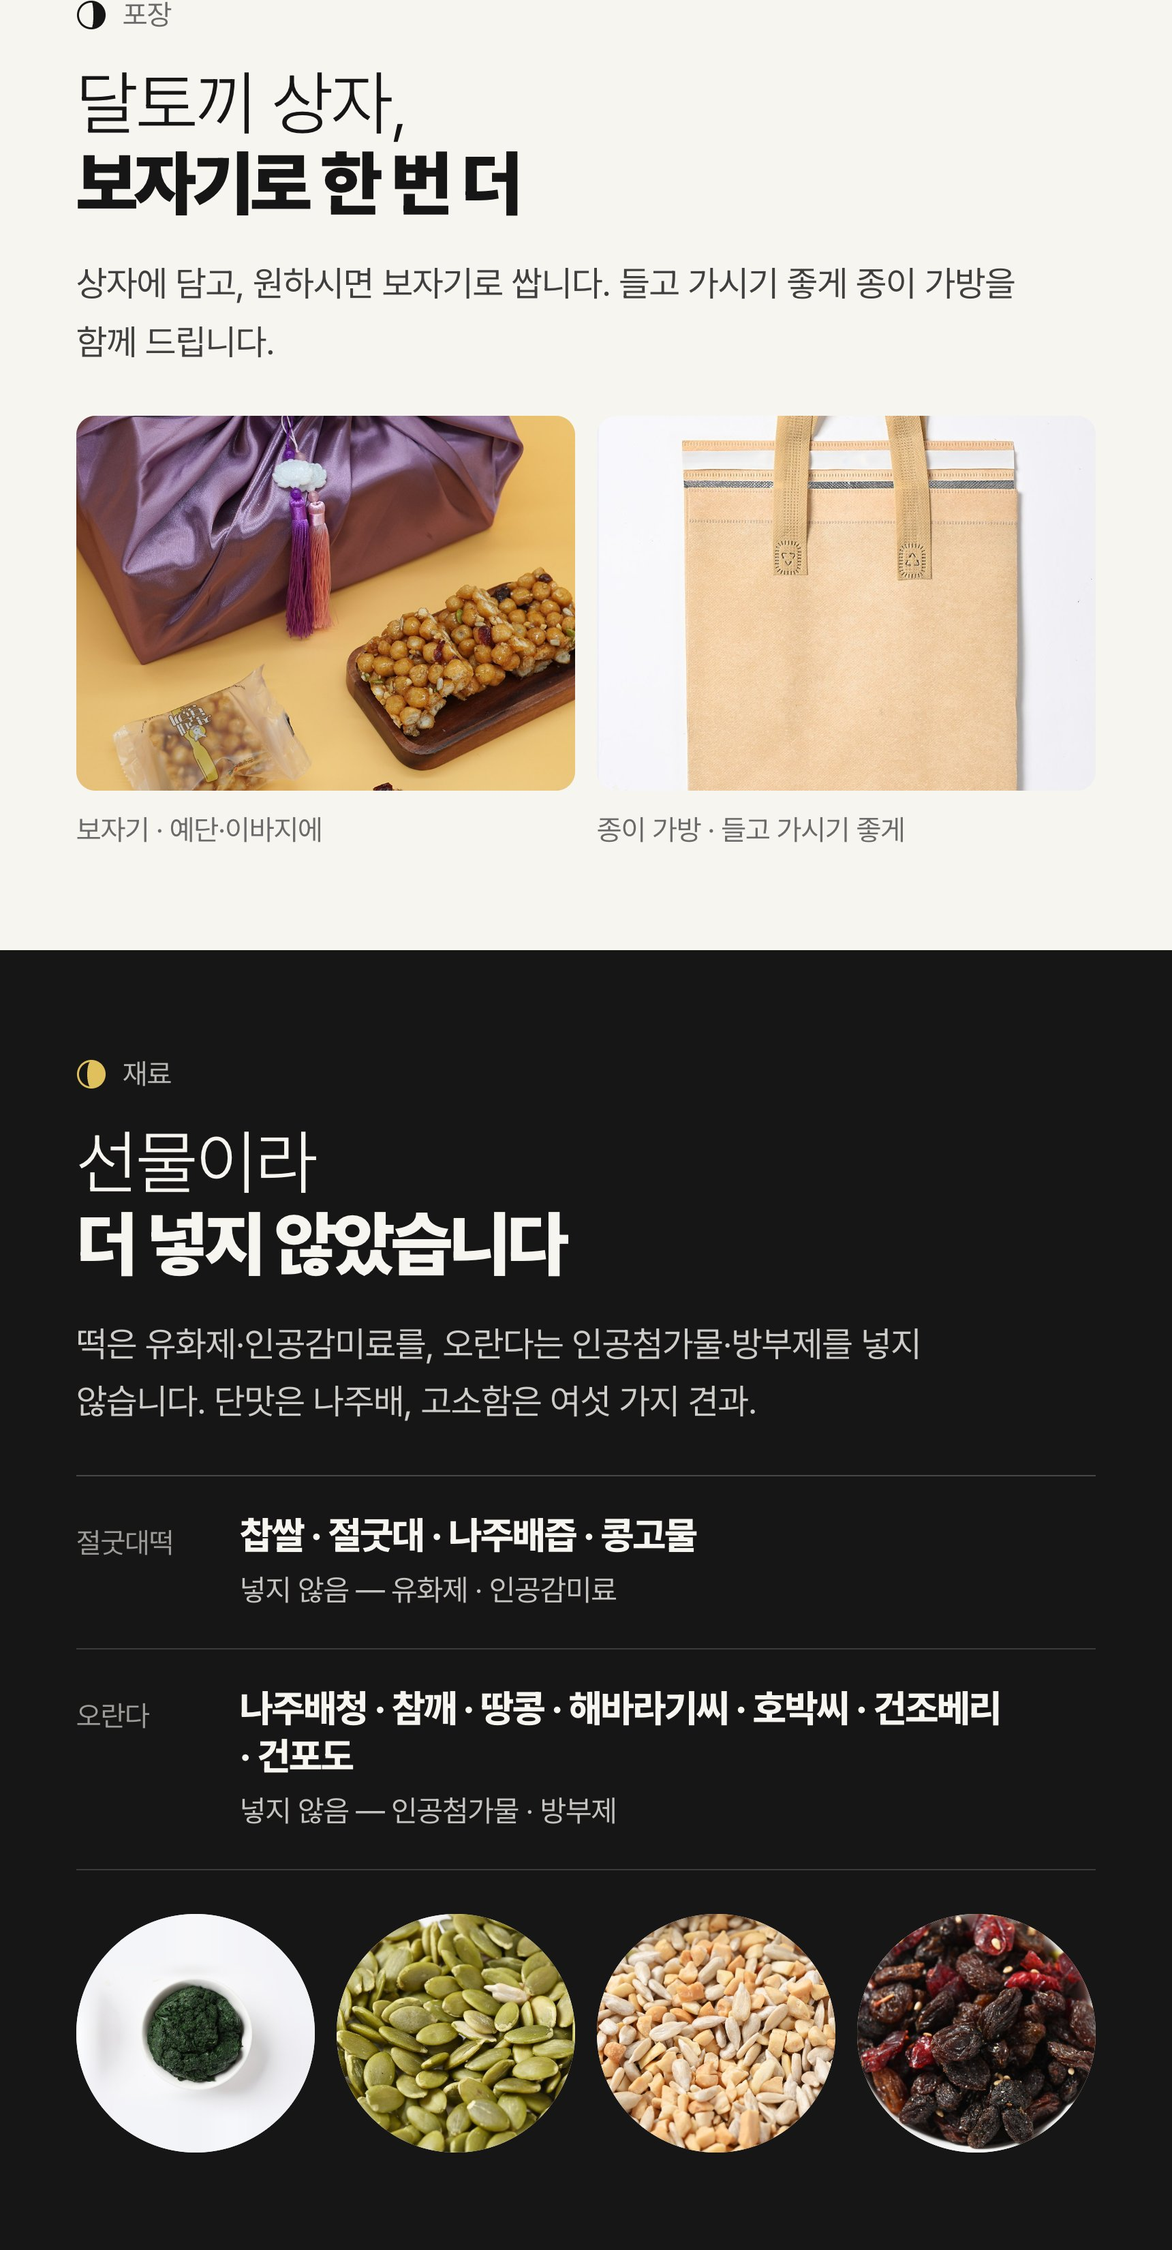
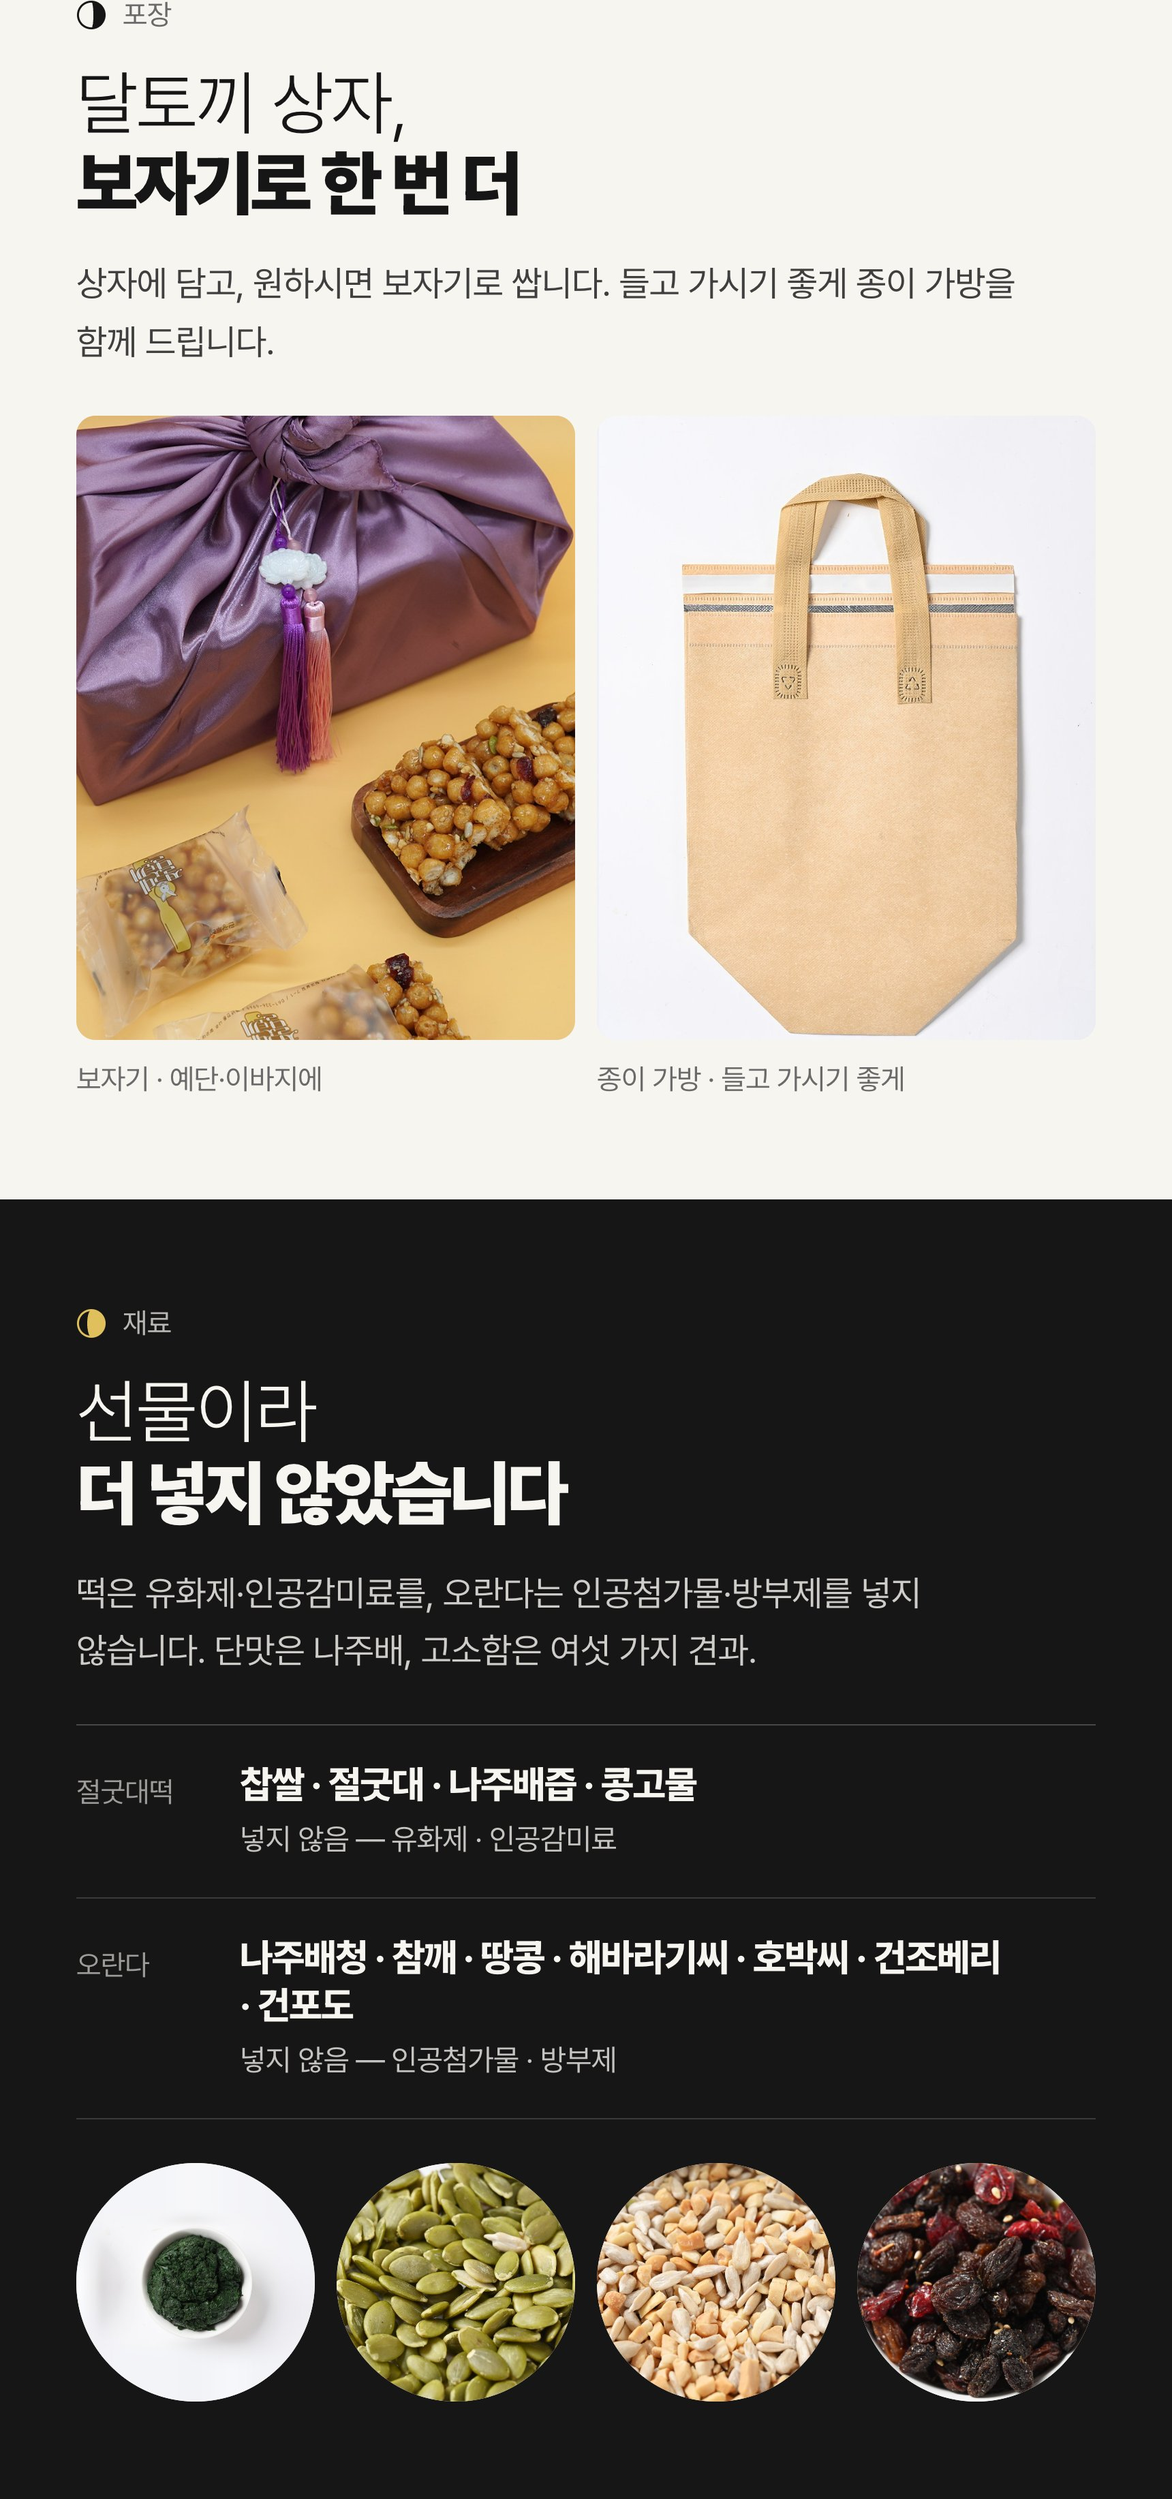
design: 3차 점검 반영 — 재료 문구 모순, 단독 헤딩 쌍, 갤러리 짝수, 상자·접시 컷 추가, 잔여 카피
- 「넣는 것은 이것뿐」이 재료 일부만 보여 주던 모순 → 「넣는 것 가까이서」, 절굿대떡에 나주배즙 원 추가, 사양 「포장」 행.
- black 단독 헤딩 5곳(홈 빚는 것들, 주문하는 방법, 보관과 해동, 만들기 체험, 이렇게 진행합니다) → thin+black 쌍.
- 갤러리 짝수: 선물세트 4장(접시·낱개 바구니 추가, 잘리던 종이 가방 제외), 오란다 6장(접시 컷 추가).
- 홈 슬라이드 1번 접시가 헤드라인에 가려 위치 조정, 캐러셀 시작 여백, 문의 행 보조 줄, 제품 행 「자세히 보기」 단서,
  마침표·따옴표·느낌표 정리, 사회적기업 번호 표기 통일, 인증 목록에서 원칙(무첨가) 분리, 밭 사진 캡션, 체험 예약 문구 중복 제거,
  오란다 사양 행 순서(보관 첫 행), 후기 대목 고아 줄, 상세페이지 포장 타일 세로 비율.

diff --git a/lib/site.ts b/lib/site.ts
@@ -199,6 +199,7 @@ export const products: Product[] = [
         alt: "흰 그릇에 담긴 절굿대 잎 반죽",
         label: "절굿대",
       },
+      { src: "/images/ing-pear.jpg", alt: "나주배", label: "나주배즙" },
     ],
     price: null,
     unit: null,
@@ -215,6 +216,7 @@ export const products: Product[] = [
         value:
           "인절미 그대로가 가장 좋지만, 기호에 따라 청이나 콩가루를 곁들이셔도 됩니다",
       },
+      { label: "포장", value: "낱개 포장" },
     ],
     gallery: [
       {
@@ -330,6 +332,10 @@ export const products: Product[] = [
         alt: "「건강하고 촉촉한, 나주배촉촉 오란다」 오란다 선물 상자",
       },
       {
+        src: "/images/gal-oranda-bars.jpg",
+        alt: "접시에 놓은 오란다 두 개",
+      },
+      {
         src: "/images/gal-oranda-seeds.jpg",
         alt: "접시에 담은 오란다와 곁들인 견과·씨앗",
       },
@@ -359,8 +365,8 @@ export const products: Product[] = [
     // 상세페이지 이미지에서 읽어낸 값. 원재료 전체 표기는 판독이 불완전해
     // 클라이언트 확인 전까지 싣지 않는다(식품 표기는 틀리면 법적 문제가 된다).
     spec: [
-      { label: "소비기한", value: "제조일로부터 6개월" },
       { label: "보관", value: "냉장·냉동 보관 권장 (상온 보관 가능)" },
+      { label: "소비기한", value: "제조일로부터 6개월" },
       {
         label: "드시는 법",
         value: "냉동 보관 시 30분 전 상온 해동, 또는 전자레인지 15초",
@@ -378,7 +384,7 @@ export const products: Product[] = [
       src: "/video/review.mp4",
       poster: "/video/review-poster.jpg",
       label: "나주배 촉촉오란다를 손에 들고 소개하는 후기 영상",
-      caption: "겉바속촉 쫀득한 식감!",
+      caption: "겉바속촉 쫀득한 식감",
       source: "남도장터 구매 고객이 올린 영상 · 27초 · 자막 있음",
       /* 영상에 박힌 자막을 그대로 옮겼다(1초 간격 프레임 OCR). 시점은 그 말이 시작되는 초. */
       moments: [
@@ -419,8 +425,8 @@ export const products: Product[] = [
         src: "/images/detail/gift-03.jpg",
         alt: "선물세트 상세 — 구성·포장·재료·쓰임새·배송·제품정보 (3/5)",
         width: 1720,
-        height: 3301,
[1 lines of base64/hex data omitted]
+        height: 3667,
[1 lines of base64/hex data omitted]
       },
       {
         src: "/images/detail/gift-04.jpg",
@@ -447,8 +453,12 @@ export const products: Product[] = [
         alt: "절굿대떡과 차를 곁들인 선물 상자",
       },
       {
-        src: "/images/gal-gift-bag.jpg",
-        alt: "선물세트를 담아 드리는 종이 가방",
+        src: "/images/gal-jeolgutdae-packs.jpg",
+        alt: "바구니에 담은 낱개 포장 절굿대떡",
+      },
+      {
+        src: "/images/gal-gift-plate.jpg",
+        alt: "접시에 담은 절굿대떡과 낱개 포장, 마른 절굿대 꽃",
       },
     ],
     price: null,
@@ -549,7 +559,7 @@ export const history = [
     year: "2023",
     items: [
       "나주시 여성새로일하기센터·국립나주숲체원 등 업무협약",
-      "사회적기업 인증 제2023-247 (고용노동부)",
+      "사회적기업 인증 제2023-247호 · 고용노동부",
     ],
   },
   {
@@ -593,8 +603,7 @@ export const experience = {
 /** 신뢰 근거. 사진이 아니라 사실로 말하는 자리다. */
 export const credentials = [
   { label: "맛의방주 등재", detail: "2022년 국제슬로푸드생물다양성재단" },
-  { label: "사회적기업 인증", detail: "제2023-247호 고용노동부" },
+  { label: "사회적기업 인증", detail: "제2023-247호 · 고용노동부" },
   { label: "고향사랑 답례품", detail: "2024년 나주시 선정" },
   { label: "상표등록", detail: "제40-2515456호 · 2026년 지식재산처" },
-  { label: "인공첨가물 무사용", detail: "유화제·인공감미료를 넣지 않습니다" },
 ] as const;

diff --git a/app/page.tsx b/app/page.tsx
@@ -43,7 +43,7 @@ export default function HomePage() {
                 {
                   src: "/images/product-gift-scene.jpg",
                   alt: "찻상에 올린 절굿대떡과 찻주전자",
-                  position: "object-[50%_55%]",
+                  position: "object-[50%_85%]",
                 },
                 {
                   src: "/images/owners-field.jpg",
@@ -118,7 +118,7 @@ export default function HomePage() {
         <SectionHead
           phase={0.15}
           eyebrow="제품"
-          title="빚는 것들"
+          title={{ thin: "나주에서", black: "빚는 것들" }}
           aside={
             <Link href="/products" className="text-link">
               제품 보러 가기
@@ -127,7 +127,7 @@ export default function HomePage() {
         />
         {/* 모바일은 원 셋을 세로로 쌓으면 1,300px 을 먹는다. 옆으로 넘기는 구조로 — 72vw 원 하나씩.
             스크롤바는 숨기고 스냅으로 한 장씩 멈춘다. sm 부터는 3열 그리드, 원 셋 윗선 동일. */}
-        <ul className="-mx-5 mt-10 flex snap-x snap-mandatory gap-5 overflow-x-auto px-5 pb-2 [scrollbar-width:none] sm:mx-0 sm:grid sm:grid-cols-3 sm:gap-x-8 sm:overflow-visible sm:px-0 sm:pb-0 lg:mt-14 lg:gap-x-10 [&::-webkit-scrollbar]:hidden">
+        <ul className="-mx-5 mt-10 flex snap-x snap-mandatory gap-5 overflow-x-auto px-5 pb-2 scroll-pl-5 [scrollbar-width:none] sm:mx-0 sm:grid sm:grid-cols-3 sm:gap-x-8 sm:overflow-visible sm:px-0 sm:pb-0 lg:mt-14 lg:gap-x-10 [&::-webkit-scrollbar]:hidden">
           {best.map((p) => (
             <li key={p.slug} className="w-[62vw] shrink-0 snap-start sm:w-auto">
               <Link
@@ -176,7 +176,7 @@ export default function HomePage() {
               <br />
               있다 하여 붙은 이름,
               <br />
-              <span className="font-black">천금누로탕.</span>
+              <span className="font-black">천금누로탕</span>
             </blockquote>
             <p className="mt-6 max-w-prose text-ink-soft">
               절굿대의 뿌리는 한방에서 누로(漏蘆)라 부르는 약재입니다.
@@ -268,7 +268,12 @@ export default function HomePage() {
       <section className="rise mx-auto max-w-6xl px-5 pb-20 pt-12 lg:px-8 lg:pb-28 lg:pt-16">
         <ul className="divide-y divide-ink/10 border-y border-ink/10">
           <li className="flex flex-col gap-3 py-5 sm:flex-row sm:items-center sm:justify-between sm:gap-8 lg:py-6">
-            <p className="text-lead font-bold">주문·체험 문의</p>
+            <div>
+              <p className="text-lead font-bold">주문·체험 문의</p>
+              <p className="mt-1 text-small text-ink-soft">
+                {site.hours} · 매장에서도 바로 구매하실 수 있습니다.
+              </p>
+            </div>
             <a href={site.telHref} className="btn-primary">
               전화 주문 {site.tel}
             </a>

diff --git a/app/products/page.tsx b/app/products/page.tsx
@@ -86,12 +86,17 @@ export default function ProductsPage() {
                     />
                   </div>
                 </ViewTransition>
-                <div>
-                  <h2 className="text-title transition-colors group-hover:text-mint-link">
-                    {p.name}
-                  </h2>
-                  <p className="mt-1 text-small text-ink-soft">{p.summary}</p>
-                  {/* 가격이 없으면 자리표('전화 문의')도 없다 — 가격은 나중에 들어온다(리더 지시). */}
+                <div className="flex items-center justify-between gap-6">
+                  <div>
+                    <h2 className="text-title transition-colors group-hover:text-mint-link">
+                      {p.name}
+                    </h2>
+                    <p className="mt-1 text-small text-ink-soft">{p.summary}</p>
+                    {/* 가격이 없으면 자리표('전화 문의')도 없다 — 가격은 나중에 들어온다(리더 지시). */}
+                  </div>
+                  <span className="text-link hidden shrink-0 sm:inline-flex">
+                    자세히 보기
+                  </span>
                 </div>
               </Link>
             </li>
@@ -102,7 +107,12 @@ export default function ProductsPage() {
       {/* 주문 경로. 전화 주문 비중이 큰 곳이다. 열마다 번호·제목·한 줄·액션 하나, 구조 동일. */}
       <section className="rise bg-paper-2">
         <div className="section-y-tight mx-auto max-w-6xl px-5 lg:px-8">
-          <SectionHead phase={0.4} eyebrow="주문" title="주문하는 방법" />
+          <SectionHead
+            phase={0.4}
+            eyebrow="주문"
+            title={{ thin: "전화로, 매장에서 ", black: "주문하는 방법" }}
+            split="inline"
+          />
           {/* 스토어 주소가 없는 동안은 두 열 — "준비 중입니다" 자리표를 주문 섹션 한가운데 두지 않는다. */}
           <ul
             className={`mt-9 grid gap-8 ${site.storeUrl ? "lg:grid-cols-3" : "lg:grid-cols-2"}`}
@@ -154,7 +164,12 @@ export default function ProductsPage() {
       {/* 제품별 spec 에만 흩어져 있던 보관·해동을 한자리에. 가장 많이 묻는 것이다.
           PC 는 subgrid 로 두 표의 행을 같은 높이에 맞춘다 — 값 길이가 달라도 아래 실선이 나란하다. */}
       <section className="section-y-tight rise mx-auto max-w-6xl px-5 lg:px-8">
-        <SectionHead phase={0.7} eyebrow="보관" title="보관과 해동" />
+        <SectionHead
+          phase={0.7}
+          eyebrow="보관"
+          title={{ thin: "집에서 ", black: "보관과 해동" }}
+          split="inline"
+        />
         <div className="mt-8 grid gap-x-12 gap-y-10 lg:grid-cols-2">
           {care.map((c) => (
             <div

diff --git a/app/story/page.tsx b/app/story/page.tsx
@@ -43,7 +43,7 @@ const rows: Row[] = [
   { when: "2021년", title: "전라남도지사 표창 (사회복지부문)" },
   {
     when: "2023년",
-    title: "사회적기업 인증 제2023-247 (고용노동부)",
+    title: "사회적기업 인증 제2023-247호 · 고용노동부",
     body: "나주시 여성새로일하기센터·국립나주숲체원 등 업무협약을 맺었습니다.",
   },
   {
@@ -128,6 +128,10 @@ export default function StoryPage() {
               className="object-cover"
             />
           </div>
+          <p className="caption mt-3 text-caption text-ink-faint">
+            이랑을 따라 자란 절굿대 밭. 2016년 육묘에 성공해 지금은 이렇게
+            기릅니다.
+          </p>
         </div>
       </section>
 
@@ -225,7 +229,8 @@ export default function StoryPage() {
               위탁해 재배합니다.
             </p>
             <p className="max-w-prose">
-              그렇게 기른 절굿대를 넣은 반죽을 손으로 쳐서 빚습니다.
+              그렇게 기른 절굿대를 넣은 반죽을 손으로 쳐서 빚습니다. 유화제나
+              인공감미료는 넣지 않고, 단맛은 나주배즙으로만 냅니다.
             </p>
           </div>
           <div className="photo aspect-[2/1] lg:aspect-4/3">

diff --git a/app/visit/page.tsx b/app/visit/page.tsx
@@ -50,7 +50,7 @@ export default function VisitPage() {
     { label: "가져가는 것", value: takeaway },
     {
       label: "예약",
-      value: "인원과 날짜에 따라 준비가 필요합니다. 미리 문의해 주세요.",
+      value: "인원과 날짜에 따라 준비가 필요합니다.",
     },
   ];
 
@@ -90,7 +90,8 @@ export default function VisitPage() {
             <SectionHead
               phase={0.25}
               eyebrow="체험"
-              title="절굿대떡 만들기 체험"
+              title={{ thin: "절굿대떡 ", black: "만들기 체험" }}
+              split="inline"
             />
             <p className="mt-6 max-w-prose text-ink-soft">
               반죽을 치고 모양을 빚어 콩고물을 입히기까지, 손으로 해 봅니다.
@@ -163,7 +164,8 @@ export default function VisitPage() {
           <SectionHead
             phase={0.55}
             eyebrow="진행 순서"
-            title="이렇게 진행합니다"
+            title={{ thin: "이렇게 ", black: "진행합니다" }}
+            split="inline"
           />
           {/* 실선 장부 세 줄. 번호는 제목 옆 작은 캡션 — 큰 숫자는 위 연표·페이지 제목과 겨뤘다. */}
           <ol className="mt-9 divide-y divide-ink/10 border-y border-ink/10">

diff --git a/app/products/[slug]/page.tsx b/app/products/[slug]/page.tsx
@@ -223,7 +223,7 @@ export default async function ProductPage({
                   phase={0.5}
                   eyebrow="재료"
                   split="inline"
-                  title={{ thin: "넣는 것은 ", black: "이것뿐" }}
+                  title={{ thin: "넣는 것 ", black: "가까이서" }}
                 />
                 <ul className="mt-8 grid grid-cols-3 gap-4 sm:gap-6 lg:grid-cols-[repeat(3,11rem)] lg:gap-10">
                   {product.ingredients.map((ing) => (
@@ -295,9 +295,9 @@ export default async function ProductPage({
                 후기 영상
               </SectionEyebrow>
               <p className="mt-5 text-h2 tracking-tight lg:text-h2-lg">
-                <span className="block font-thin">직접 드셔 본 분의 말.</span>
+                <span className="block font-thin">직접 드셔 본 분의 말</span>
                 <span className="block font-black">
-                  “{product.reviewVideo.caption}”
+                  {product.reviewVideo.caption}
                 </span>
               </p>
               <p className="mt-5 text-caption text-paper-faint">

diff --git a/tools/detail-pages/gift.html b/tools/detail-pages/gift.html
@@ -58,8 +58,8 @@
     <h2 class="h2"><span class="thin">달토끼 상자,</span><br /><span class="black">보자기로 한 번 더</span></h2>
     <p class="body" style="margin-top:22px;max-width:700px">상자에 담고, 원하시면 보자기로 쌉니다. 들고 가시기 좋게 종이 가방을 함께 드립니다.</p>
     <div class="grid-2" style="margin-top:32px">
-      <div><div class="photo tile ratio-43"><img src="../../public/images/detail/src-bojagi.jpg" alt="" /></div><p class="caption">보자기 · 예단·이바지에</p></div>
-      <div><div class="photo tile ratio-43"><img src="../../public/images/gal-gift-bag.jpg" alt="" /></div><p class="caption">종이 가방 · 들고 가시기 좋게</p></div>
+      <div><div class="photo tile ratio-45"><img src="../../public/images/detail/src-bojagi.jpg" alt="" /></div><p class="caption">보자기 · 예단·이바지에</p></div>
+      <div><div class="photo tile ratio-45"><img src="../../public/images/gal-gift-bag.jpg" alt="" /></div><p class="caption">종이 가방 · 들고 가시기 좋게</p></div>
     </div>
   </section>
 

diff --git a/components/review-video.tsx b/components/review-video.tsx
@@ -67,7 +67,7 @@ export function ReviewVideo({ src, poster, label, moments, children }: Props) {
                   type="button"
                   aria-current={active ? "true" : undefined}
                   onClick={() => seek(m.t)}
-                  className={`flex w-full items-baseline gap-4 py-3.5 text-left transition-colors hover:text-paper ${
+                  className={`flex w-full items-baseline gap-4 py-3.5 text-left text-pretty transition-colors hover:text-paper ${
                     active ? "text-paper" : "text-paper-faint"
                   }`}
                 >
